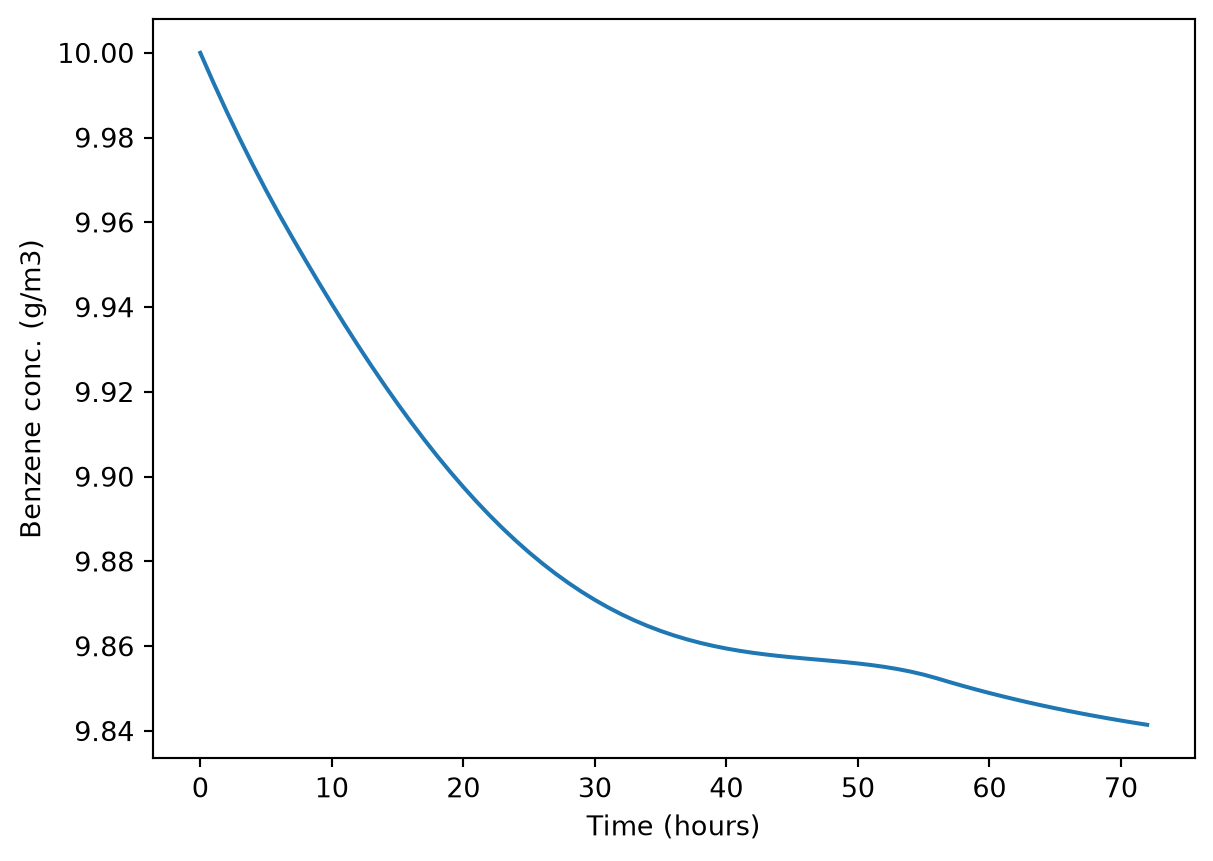
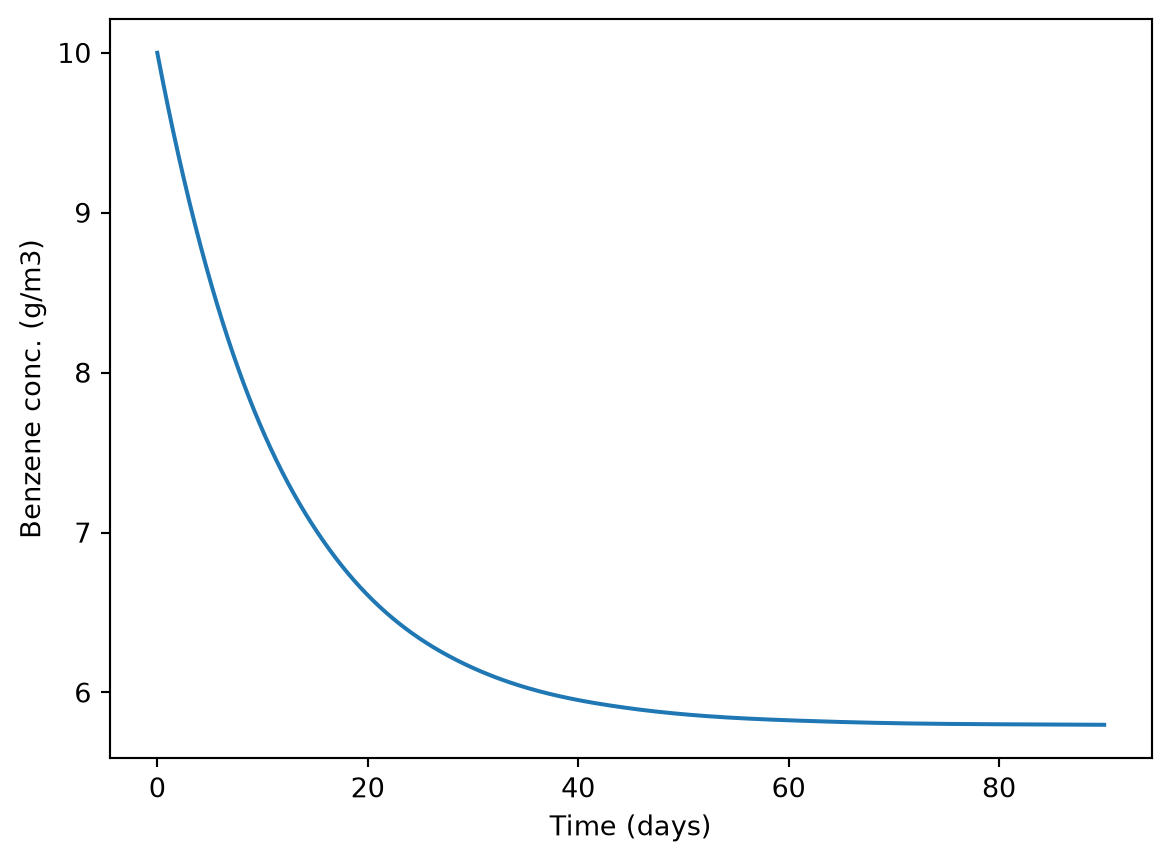
fix bez ex

diff --git a/docs/classes/22-12-nov-time-var/exercises/time_var_exercise.html b/docs/classes/22-12-nov-time-var/exercises/time_var_exercise.html
@@ -246,7 +246,7 @@ window.Quarto = {
 </header>
 
 
-<p>Here you will use the bezene volatilization model from the earlier mass transfer exercise. In the conceptual model, we have uniform benzene concentrations in the bulk air and wastewater. Contaminated wastewater is continuously added and older wastewater flows out through an outlet, we can assume a uniform and constant concentration, like a completely stirred tank reactor (CSTR). We could (and did) represent this situation with a steady-state model if the mass transfer coefficient is constant, but here you will create a time-variable model where that mass transfer coefficient changes over time.</p>
+<p>Here you will use the bezene volatilization model from the mass transfer exercise. In the conceptual model, we have uniform benzene concentrations in the bulk air and wastewater. Contaminated wastewater is continuously added and older wastewater flows out through an outlet, we can assume a uniform and constant concentration, like a completely stirred tank reactor (CSTR). We could (and did) represent this situation with a steady-state model if the mass transfer coefficient is constant, but here you will create a time-variable model where that mass transfer coefficient changes over time.</p>
 <p>Here is a sketch of the conceptual model:</p>
 <div id="fig-benz-concept" class="quarto-float quarto-figure quarto-figure-center anchored" alt="Benzene volatilization model concept">
 <figure class="quarto-float quarto-float-fig figure">
@@ -259,12 +259,12 @@ Figure&nbsp;1: Conceptual model for benzene volatilization from a wastewater lag
 </figure>
 </div>
 <p>For more details, you can check the <a href="https://au-bce-ee.github.io/course-modelling-2026/classes/06-10-sept-mass-transfer/solutions/benz_sol.html">solution</a>.</p>
-<p>The Python module <code>benz_nmods.py</code> has a numerical implementation of two models: a batch model with no inflow or outflow, and another with constant and equal inflow and outflow.</p>
+<p>The Python module <code>benz_mod.py</code> has a numerical implementation of a model with constant and equal inflow and outflow. It has been changed slightly from the earlier solution–here there are separate inputs for initial lagoon benzene concentration and wastewater concentration.</p>
 <div class="code-with-filename">
 <div class="code-with-filename-file">
-<pre><strong>benz_nmods.py</strong></pre>
+<pre><strong>benz_mod.py</strong></pre>
 </div>
-<div class="code-copy-outer-scaffold"><div class="sourceCode" id="cb1" data-filename="benz_nmods.py"><pre class="sourceCode python code-with-copy"><code class="sourceCode python"><span id="cb1-1"><a href="#cb1-1" aria-hidden="true" tabindex="-1"></a><span class="co">"""</span></span>
+<div class="code-copy-outer-scaffold"><div class="sourceCode" id="cb1" data-filename="benz_mod.py"><pre class="sourceCode python code-with-copy"><code class="sourceCode python"><span id="cb1-1"><a href="#cb1-1" aria-hidden="true" tabindex="-1"></a><span class="co">"""</span></span>
 <span id="cb1-2"><a href="#cb1-2" aria-hidden="true" tabindex="-1"></a><span class="co">File name: benz_mods.py</span></span>
 <span id="cb1-3"><a href="#cb1-3" aria-hidden="true" tabindex="-1"></a><span class="co">Author: Sasha D. Hafner</span></span>
 <span id="cb1-4"><a href="#cb1-4" aria-hidden="true" tabindex="-1"></a><span class="co">Course: Modelling 2026</span></span>
@@ -336,7 +336,7 @@ Figure&nbsp;1: Conceptual model for benzene volatilization from a wastewater lag
 <span id="cb1-70"><a href="#cb1-70" aria-hidden="true" tabindex="-1"></a>    <span class="cf">return</span> out</span>
 <span id="cb1-71"><a href="#cb1-71" aria-hidden="true" tabindex="-1"></a></span>
 <span id="cb1-72"><a href="#cb1-72" aria-hidden="true" tabindex="-1"></a></span>
-<span id="cb1-73"><a href="#cb1-73" aria-hidden="true" tabindex="-1"></a><span class="kw">def</span> benzvol_flow(cl0, ca, kg, depth, h, hrt, t_range, t_step):  </span>
+<span id="cb1-73"><a href="#cb1-73" aria-hidden="true" tabindex="-1"></a><span class="kw">def</span> benzvol_flow(clin, cl0, ca, kg, depth, h, hrt, t_range, t_step):  </span>
 <span id="cb1-74"><a href="#cb1-74" aria-hidden="true" tabindex="-1"></a></span>
 <span id="cb1-75"><a href="#cb1-75" aria-hidden="true" tabindex="-1"></a>    <span class="co">""" </span></span>
 <span id="cb1-76"><a href="#cb1-76" aria-hidden="true" tabindex="-1"></a><span class="co">    Dynamic numerical model for volatilization of benzene </span></span>
@@ -344,81 +344,86 @@ Figure&nbsp;1: Conceptual model for benzene volatilization from a wastewater lag
 <span id="cb1-78"><a href="#cb1-78" aria-hidden="true" tabindex="-1"></a></span>
 <span id="cb1-79"><a href="#cb1-79" aria-hidden="true" tabindex="-1"></a><span class="co">    Parameters</span></span>
 <span id="cb1-80"><a href="#cb1-80" aria-hidden="true" tabindex="-1"></a><span class="co">    ----------</span></span>
-<span id="cb1-81"><a href="#cb1-81" aria-hidden="true" tabindex="-1"></a><span class="co">    cl0 : float</span></span>
-<span id="cb1-82"><a href="#cb1-82" aria-hidden="true" tabindex="-1"></a><span class="co">        Initial benzene concentration in lagoon (g/m3) </span></span>
-<span id="cb1-83"><a href="#cb1-83" aria-hidden="true" tabindex="-1"></a><span class="co">    ca : float</span></span>
-<span id="cb1-84"><a href="#cb1-84" aria-hidden="true" tabindex="-1"></a><span class="co">        Constant ambient benzene concentration in air (g/m3)</span></span>
-<span id="cb1-85"><a href="#cb1-85" aria-hidden="true" tabindex="-1"></a><span class="co">    kg : float</span></span>
-<span id="cb1-86"><a href="#cb1-86" aria-hidden="true" tabindex="-1"></a><span class="co">        Overall interface mass transfer coefficient in gas phase units (m/s)</span></span>
-<span id="cb1-87"><a href="#cb1-87" aria-hidden="true" tabindex="-1"></a><span class="co">    depth : float</span></span>
-<span id="cb1-88"><a href="#cb1-88" aria-hidden="true" tabindex="-1"></a><span class="co">        Lagoon depth (assumed to be uniform) (m)</span></span>
-<span id="cb1-89"><a href="#cb1-89" aria-hidden="true" tabindex="-1"></a><span class="co">    h : float</span></span>
-<span id="cb1-90"><a href="#cb1-90" aria-hidden="true" tabindex="-1"></a><span class="co">        Henry's law constant (volumetric concentration based, aq:g)</span></span>
-<span id="cb1-91"><a href="#cb1-91" aria-hidden="true" tabindex="-1"></a><span class="co">    hrt : float</span></span>
-<span id="cb1-92"><a href="#cb1-92" aria-hidden="true" tabindex="-1"></a><span class="co">        hydraulic retention time based on flow rate (in = out) and lagoon volume (s)</span></span>
-<span id="cb1-93"><a href="#cb1-93" aria-hidden="true" tabindex="-1"></a><span class="co">    t_range : list or tuple of two floats </span></span>
-<span id="cb1-94"><a href="#cb1-94" aria-hidden="true" tabindex="-1"></a><span class="co">        Minimum and maximum time in output (s) </span></span>
-<span id="cb1-95"><a href="#cb1-95" aria-hidden="true" tabindex="-1"></a><span class="co">    t_step : float</span></span>
-<span id="cb1-96"><a href="#cb1-96" aria-hidden="true" tabindex="-1"></a><span class="co">        Time step in output (s)</span></span>
-<span id="cb1-97"><a href="#cb1-97" aria-hidden="true" tabindex="-1"></a></span>
-<span id="cb1-98"><a href="#cb1-98" aria-hidden="true" tabindex="-1"></a><span class="co">    Returns</span></span>
-<span id="cb1-99"><a href="#cb1-99" aria-hidden="true" tabindex="-1"></a><span class="co">    -------</span></span>
-<span id="cb1-100"><a href="#cb1-100" aria-hidden="true" tabindex="-1"></a><span class="co">    dictionary</span></span>
-<span id="cb1-101"><a href="#cb1-101" aria-hidden="true" tabindex="-1"></a><span class="co">        With elements 't' for time (s) and 'cl' for benzene concentration </span></span>
-<span id="cb1-102"><a href="#cb1-102" aria-hidden="true" tabindex="-1"></a><span class="co">        in wastewater (g/m3)</span></span>
-<span id="cb1-103"><a href="#cb1-103" aria-hidden="true" tabindex="-1"></a><span class="co"> </span></span>
-<span id="cb1-104"><a href="#cb1-104" aria-hidden="true" tabindex="-1"></a><span class="co">    """</span></span>
-<span id="cb1-105"><a href="#cb1-105" aria-hidden="true" tabindex="-1"></a>     </span>
-<span id="cb1-106"><a href="#cb1-106" aria-hidden="true" tabindex="-1"></a>    <span class="co"># Define rates function</span></span>
-<span id="cb1-107"><a href="#cb1-107" aria-hidden="true" tabindex="-1"></a>    <span class="kw">def</span> rates(t, cl):</span>
-<span id="cb1-108"><a href="#cb1-108" aria-hidden="true" tabindex="-1"></a></span>
-<span id="cb1-109"><a href="#cb1-109" aria-hidden="true" tabindex="-1"></a>        dcdt <span class="op">=</span> (cl0 <span class="op">-</span> cl) <span class="op">/</span> hrt <span class="op">-</span> kg <span class="op">*</span> (cl <span class="op">/</span> h <span class="op">-</span> ca) <span class="op">/</span> depth</span>
+<span id="cb1-81"><a href="#cb1-81" aria-hidden="true" tabindex="-1"></a><span class="co">    clin : float</span></span>
+<span id="cb1-82"><a href="#cb1-82" aria-hidden="true" tabindex="-1"></a><span class="co">        Benzene concentration in untreated wastewater (g/m3) </span></span>
+<span id="cb1-83"><a href="#cb1-83" aria-hidden="true" tabindex="-1"></a><span class="co">    cl0 : float</span></span>
+<span id="cb1-84"><a href="#cb1-84" aria-hidden="true" tabindex="-1"></a><span class="co">        Initial benzene concentration in lagoon (g/m3) </span></span>
+<span id="cb1-85"><a href="#cb1-85" aria-hidden="true" tabindex="-1"></a><span class="co">    ca : float</span></span>
+<span id="cb1-86"><a href="#cb1-86" aria-hidden="true" tabindex="-1"></a><span class="co">        Constant ambient benzene concentration in air (g/m3)</span></span>
+<span id="cb1-87"><a href="#cb1-87" aria-hidden="true" tabindex="-1"></a><span class="co">    kg : float</span></span>
+<span id="cb1-88"><a href="#cb1-88" aria-hidden="true" tabindex="-1"></a><span class="co">        Overall interface mass transfer coefficient in gas phase units (m/s)</span></span>
+<span id="cb1-89"><a href="#cb1-89" aria-hidden="true" tabindex="-1"></a><span class="co">    depth : float</span></span>
+<span id="cb1-90"><a href="#cb1-90" aria-hidden="true" tabindex="-1"></a><span class="co">        Lagoon depth (assumed to be uniform) (m)</span></span>
+<span id="cb1-91"><a href="#cb1-91" aria-hidden="true" tabindex="-1"></a><span class="co">    h : float</span></span>
+<span id="cb1-92"><a href="#cb1-92" aria-hidden="true" tabindex="-1"></a><span class="co">        Henry's law constant (volumetric concentration based, aq:g)</span></span>
+<span id="cb1-93"><a href="#cb1-93" aria-hidden="true" tabindex="-1"></a><span class="co">    hrt : float</span></span>
+<span id="cb1-94"><a href="#cb1-94" aria-hidden="true" tabindex="-1"></a><span class="co">        hydraulic retention time based on flow rate (in = out) and lagoon volume (s)</span></span>
+<span id="cb1-95"><a href="#cb1-95" aria-hidden="true" tabindex="-1"></a><span class="co">    t_range : list or tuple of two floats </span></span>
+<span id="cb1-96"><a href="#cb1-96" aria-hidden="true" tabindex="-1"></a><span class="co">        Minimum and maximum time in output (s) </span></span>
+<span id="cb1-97"><a href="#cb1-97" aria-hidden="true" tabindex="-1"></a><span class="co">    t_step : float</span></span>
+<span id="cb1-98"><a href="#cb1-98" aria-hidden="true" tabindex="-1"></a><span class="co">        Time step in output (s)</span></span>
+<span id="cb1-99"><a href="#cb1-99" aria-hidden="true" tabindex="-1"></a></span>
+<span id="cb1-100"><a href="#cb1-100" aria-hidden="true" tabindex="-1"></a><span class="co">    Returns</span></span>
+<span id="cb1-101"><a href="#cb1-101" aria-hidden="true" tabindex="-1"></a><span class="co">    -------</span></span>
+<span id="cb1-102"><a href="#cb1-102" aria-hidden="true" tabindex="-1"></a><span class="co">    dictionary</span></span>
+<span id="cb1-103"><a href="#cb1-103" aria-hidden="true" tabindex="-1"></a><span class="co">        With elements 't' for time (s) and 'cl' for benzene concentration </span></span>
+<span id="cb1-104"><a href="#cb1-104" aria-hidden="true" tabindex="-1"></a><span class="co">        in wastewater (g/m3)</span></span>
+<span id="cb1-105"><a href="#cb1-105" aria-hidden="true" tabindex="-1"></a><span class="co"> </span></span>
+<span id="cb1-106"><a href="#cb1-106" aria-hidden="true" tabindex="-1"></a><span class="co">    """</span></span>
+<span id="cb1-107"><a href="#cb1-107" aria-hidden="true" tabindex="-1"></a>     </span>
+<span id="cb1-108"><a href="#cb1-108" aria-hidden="true" tabindex="-1"></a>    <span class="co"># Define rates function</span></span>
+<span id="cb1-109"><a href="#cb1-109" aria-hidden="true" tabindex="-1"></a>    <span class="kw">def</span> rates(t, cl):</span>
 <span id="cb1-110"><a href="#cb1-110" aria-hidden="true" tabindex="-1"></a></span>
-<span id="cb1-111"><a href="#cb1-111" aria-hidden="true" tabindex="-1"></a>        <span class="cf">return</span> dcdt</span>
+<span id="cb1-111"><a href="#cb1-111" aria-hidden="true" tabindex="-1"></a>        dcdt <span class="op">=</span> (clin <span class="op">-</span> cl) <span class="op">/</span> hrt <span class="op">-</span> kg <span class="op">*</span> (cl <span class="op">/</span> h <span class="op">-</span> ca) <span class="op">/</span> depth</span>
 <span id="cb1-112"><a href="#cb1-112" aria-hidden="true" tabindex="-1"></a></span>
-<span id="cb1-113"><a href="#cb1-113" aria-hidden="true" tabindex="-1"></a>    res <span class="op">=</span> solve_ivp(</span>
-<span id="cb1-114"><a href="#cb1-114" aria-hidden="true" tabindex="-1"></a>        rates, </span>
-<span id="cb1-115"><a href="#cb1-115" aria-hidden="true" tabindex="-1"></a>        t_span <span class="op">=</span> t_range, </span>
-<span id="cb1-116"><a href="#cb1-116" aria-hidden="true" tabindex="-1"></a>        y0 <span class="op">=</span> [cl0], </span>
-<span id="cb1-117"><a href="#cb1-117" aria-hidden="true" tabindex="-1"></a>        t_eval <span class="op">=</span> np.arange(t_range[<span class="dv">0</span>], t_range[<span class="dv">1</span>] <span class="op">+</span> t_step, t_step)</span>
-<span id="cb1-118"><a href="#cb1-118" aria-hidden="true" tabindex="-1"></a>    )</span>
-<span id="cb1-119"><a href="#cb1-119" aria-hidden="true" tabindex="-1"></a></span>
-<span id="cb1-120"><a href="#cb1-120" aria-hidden="true" tabindex="-1"></a>    <span class="co"># Return user-friendly results object (dictionary here)</span></span>
-<span id="cb1-121"><a href="#cb1-121" aria-hidden="true" tabindex="-1"></a>    out <span class="op">=</span> {</span>
-<span id="cb1-122"><a href="#cb1-122" aria-hidden="true" tabindex="-1"></a>        <span class="st">"t"</span>: res.t, </span>
-<span id="cb1-123"><a href="#cb1-123" aria-hidden="true" tabindex="-1"></a>        <span class="st">"cl"</span>: res.y[<span class="dv">0</span>, :]</span>
-<span id="cb1-124"><a href="#cb1-124" aria-hidden="true" tabindex="-1"></a>    }</span>
-<span id="cb1-125"><a href="#cb1-125" aria-hidden="true" tabindex="-1"></a></span>
-<span id="cb1-126"><a href="#cb1-126" aria-hidden="true" tabindex="-1"></a>    <span class="cf">return</span> out</span></code></pre></div><button title="Copy to Clipboard" class="code-copy-button"><i class="bi"></i></button></div>
+<span id="cb1-113"><a href="#cb1-113" aria-hidden="true" tabindex="-1"></a>        <span class="cf">return</span> dcdt</span>
+<span id="cb1-114"><a href="#cb1-114" aria-hidden="true" tabindex="-1"></a></span>
+<span id="cb1-115"><a href="#cb1-115" aria-hidden="true" tabindex="-1"></a>    res <span class="op">=</span> solve_ivp(</span>
+<span id="cb1-116"><a href="#cb1-116" aria-hidden="true" tabindex="-1"></a>        rates, </span>
+<span id="cb1-117"><a href="#cb1-117" aria-hidden="true" tabindex="-1"></a>        t_span <span class="op">=</span> t_range, </span>
+<span id="cb1-118"><a href="#cb1-118" aria-hidden="true" tabindex="-1"></a>        y0 <span class="op">=</span> [cl0], </span>
+<span id="cb1-119"><a href="#cb1-119" aria-hidden="true" tabindex="-1"></a>        t_eval <span class="op">=</span> np.arange(t_range[<span class="dv">0</span>], t_range[<span class="dv">1</span>] <span class="op">+</span> t_step, t_step)</span>
+<span id="cb1-120"><a href="#cb1-120" aria-hidden="true" tabindex="-1"></a>    )</span>
+<span id="cb1-121"><a href="#cb1-121" aria-hidden="true" tabindex="-1"></a></span>
+<span id="cb1-122"><a href="#cb1-122" aria-hidden="true" tabindex="-1"></a>    <span class="co"># Return user-friendly results object (dictionary here)</span></span>
+<span id="cb1-123"><a href="#cb1-123" aria-hidden="true" tabindex="-1"></a>    out <span class="op">=</span> {</span>
+<span id="cb1-124"><a href="#cb1-124" aria-hidden="true" tabindex="-1"></a>        <span class="st">"t"</span>: res.t, </span>
+<span id="cb1-125"><a href="#cb1-125" aria-hidden="true" tabindex="-1"></a>        <span class="st">"cl"</span>: res.y[<span class="dv">0</span>, :]</span>
+<span id="cb1-126"><a href="#cb1-126" aria-hidden="true" tabindex="-1"></a>    }</span>
+<span id="cb1-127"><a href="#cb1-127" aria-hidden="true" tabindex="-1"></a></span>
+<span id="cb1-128"><a href="#cb1-128" aria-hidden="true" tabindex="-1"></a>    <span class="cf">return</span> out</span></code></pre></div><button title="Copy to Clipboard" class="code-copy-button"><i class="bi"></i></button></div>
 </div>
-<p>Here you will work with the second model. Here is a demo.</p>
-<div id="e07c41b1" class="cell" data-execution_count="1">
+<p>Here is a demo, starting with a benzene concentration of 10 <span class="math inline">\(\gpmc\)</span>.</p>
+<div id="d528186a" class="cell" data-execution_count="1">
 <div class="code-copy-outer-scaffold"><div class="sourceCode cell-code" id="cb2"><pre class="sourceCode python code-with-copy"><code class="sourceCode python"><span id="cb2-1"><a href="#cb2-1" aria-hidden="true" tabindex="-1"></a><span class="im">import</span> numpy <span class="im">as</span> np</span>
 <span id="cb2-2"><a href="#cb2-2" aria-hidden="true" tabindex="-1"></a><span class="im">import</span> matplotlib.pyplot <span class="im">as</span> plt</span>
 <span id="cb2-3"><a href="#cb2-3" aria-hidden="true" tabindex="-1"></a><span class="im">from</span> scipy.integrate <span class="im">import</span> solve_ivp</span>
 <span id="cb2-4"><a href="#cb2-4" aria-hidden="true" tabindex="-1"></a></span>
-<span id="cb2-5"><a href="#cb2-5" aria-hidden="true" tabindex="-1"></a><span class="im">import</span> benz_nmods <span class="im">as</span> bnm</span></code></pre></div><button title="Copy to Clipboard" class="code-copy-button"><i class="bi"></i></button></div>
+<span id="cb2-5"><a href="#cb2-5" aria-hidden="true" tabindex="-1"></a><span class="im">import</span> benz_mod <span class="im">as</span> bnm</span></code></pre></div><button title="Copy to Clipboard" class="code-copy-button"><i class="bi"></i></button></div>
 </div>
-<div id="1d90fcd4" class="cell" data-execution_count="2">
+<p>We’ll use a much lower mass transfer coefficient here than in the earlier exercise, only because this value is more realistic. And to make this lagoon at all effective, that means we need a much higher retention time. We might also consider whether benzene should be allowed to simply volatilize into the atmosphere, but for now let’s just accept that this system may not be a very realistic one!</p>
+<div id="106468f8" class="cell" data-execution_count="2">
 <div class="code-copy-outer-scaffold"><div class="sourceCode cell-code" id="cb3"><pre class="sourceCode python code-with-copy"><code class="sourceCode python"><span id="cb3-1"><a href="#cb3-1" aria-hidden="true" tabindex="-1"></a>pred03 <span class="op">=</span> bnm.benzvol_flow(</span>
-<span id="cb3-2"><a href="#cb3-2" aria-hidden="true" tabindex="-1"></a>    cl0<span class="op">=</span><span class="dv">10</span>, </span>
-<span id="cb3-3"><a href="#cb3-3" aria-hidden="true" tabindex="-1"></a>    ca<span class="op">=</span><span class="dv">0</span>, </span>
-<span id="cb3-4"><a href="#cb3-4" aria-hidden="true" tabindex="-1"></a>    kg<span class="op">=</span><span class="fl">1e-6</span>, </span>
-<span id="cb3-5"><a href="#cb3-5" aria-hidden="true" tabindex="-1"></a>    depth<span class="op">=</span><span class="dv">1</span>,</span>
-<span id="cb3-6"><a href="#cb3-6" aria-hidden="true" tabindex="-1"></a>    h<span class="op">=</span><span class="dv">5</span>,</span>
-<span id="cb3-7"><a href="#cb3-7" aria-hidden="true" tabindex="-1"></a>    hrt<span class="op">=</span><span class="dv">86400</span>,</span>
-<span id="cb3-8"><a href="#cb3-8" aria-hidden="true" tabindex="-1"></a>    t_range <span class="op">=</span> (<span class="dv">0</span>, <span class="dv">3</span> <span class="op">*</span> <span class="dv">86400</span>),</span>
-<span id="cb3-9"><a href="#cb3-9" aria-hidden="true" tabindex="-1"></a>    t_step <span class="op">=</span> <span class="dv">3600</span></span>
-<span id="cb3-10"><a href="#cb3-10" aria-hidden="true" tabindex="-1"></a>)</span></code></pre></div><button title="Copy to Clipboard" class="code-copy-button"><i class="bi"></i></button></div>
+<span id="cb3-2"><a href="#cb3-2" aria-hidden="true" tabindex="-1"></a>    clin<span class="op">=</span><span class="dv">10</span>, </span>
+<span id="cb3-3"><a href="#cb3-3" aria-hidden="true" tabindex="-1"></a>    cl0<span class="op">=</span><span class="dv">10</span>, </span>
+<span id="cb3-4"><a href="#cb3-4" aria-hidden="true" tabindex="-1"></a>    ca<span class="op">=</span><span class="dv">0</span>, </span>
+<span id="cb3-5"><a href="#cb3-5" aria-hidden="true" tabindex="-1"></a>    kg<span class="op">=</span><span class="fl">2e-6</span>, </span>
+<span id="cb3-6"><a href="#cb3-6" aria-hidden="true" tabindex="-1"></a>    depth<span class="op">=</span><span class="dv">1</span>,</span>
+<span id="cb3-7"><a href="#cb3-7" aria-hidden="true" tabindex="-1"></a>    h<span class="op">=</span><span class="dv">5</span>,</span>
+<span id="cb3-8"><a href="#cb3-8" aria-hidden="true" tabindex="-1"></a>    hrt<span class="op">=</span><span class="dv">21</span> <span class="op">*</span> <span class="dv">86400</span>,</span>
+<span id="cb3-9"><a href="#cb3-9" aria-hidden="true" tabindex="-1"></a>    t_range <span class="op">=</span> (<span class="dv">0</span>, <span class="dv">3</span> <span class="op">*</span> <span class="dv">30</span> <span class="op">*</span> <span class="dv">86400</span>),</span>
+<span id="cb3-10"><a href="#cb3-10" aria-hidden="true" tabindex="-1"></a>    t_step <span class="op">=</span> <span class="dv">3600</span></span>
+<span id="cb3-11"><a href="#cb3-11" aria-hidden="true" tabindex="-1"></a>)</span></code></pre></div><button title="Copy to Clipboard" class="code-copy-button"><i class="bi"></i></button></div>
 </div>
-<div id="23b12c99" class="cell" data-execution_count="3">
-<div class="code-copy-outer-scaffold"><div class="sourceCode cell-code" id="cb4"><pre class="sourceCode python code-with-copy"><code class="sourceCode python"><span id="cb4-1"><a href="#cb4-1" aria-hidden="true" tabindex="-1"></a>plt.plot(pred03[<span class="st">"t"</span>] <span class="op">/</span> <span class="dv">3600</span>, pred03[<span class="st">"cl"</span>])</span>
-<span id="cb4-2"><a href="#cb4-2" aria-hidden="true" tabindex="-1"></a>plt.xlabel(<span class="st">"Time (hours)"</span>)</span>
-<span id="cb4-3"><a href="#cb4-3" aria-hidden="true" tabindex="-1"></a>plt.ylabel(<span class="st">"Benzene conc. (g/m3)"</span>)</span></code></pre></div><button title="Copy to Clipboard" class="code-copy-button"><i class="bi"></i></button></div>
+<div id="69935652" class="cell" data-execution_count="3">
+<div class="code-copy-outer-scaffold"><div class="sourceCode cell-code" id="cb4"><pre class="sourceCode python code-with-copy"><code class="sourceCode python"><span id="cb4-1"><a href="#cb4-1" aria-hidden="true" tabindex="-1"></a>plt.plot(pred03[<span class="st">"t"</span>] <span class="op">/</span> <span class="dv">86400</span>, pred03[<span class="st">"cl"</span>])</span>
+<span id="cb4-2"><a href="#cb4-2" aria-hidden="true" tabindex="-1"></a>plt.xlabel(<span class="st">"Time (days)"</span>)</span>
+<span id="cb4-3"><a href="#cb4-3" aria-hidden="true" tabindex="-1"></a>plt.ylabel(<span class="st">"Benzene conc. (g/m3)"</span>)</span>
+<span id="cb4-4"><a href="#cb4-4" aria-hidden="true" tabindex="-1"></a>plt.show()</span></code></pre></div><button title="Copy to Clipboard" class="code-copy-button"><i class="bi"></i></button></div>
 <div class="cell-output cell-output-display">
 <div>
 <figure class="figure">
-<p><img src="time_var_exercise_files/figure-html/cell-4-output-1.png" width="607" height="431" class="figure-img"></p>
+<p><img src="time_var_exercise_files/figure-html/cell-4-output-1.png" width="585" height="431" class="figure-img"></p>
 </figure>
 </div>
 </div>

diff --git a/docs/index.html b/docs/index.html
@@ -186,7 +186,7 @@ MathJax = {
 
 
 <p><em>Modelling 2026</em> class schedule. Links appear below as material is released – slides and exercises are generally posted before class, solutions after. The reading or watching in the “Preparation” column should be completed before class. The textbook is <a href="https://au-bce-ee.github.io/modeling-py-book/">here</a>.</p>
-<div id="2e8a58b1" class="cell" data-execution_count="1">
+<div id="c2467466" class="cell" data-execution_count="1">
 <div class="cell-output cell-output-display">
 <table class="table table-striped caption-top table-sm small">
 <thead>

diff --git a/classes/22-12-nov-time-var/exercises/benz_mod.py b/classes/22-12-nov-time-var/exercises/benz_mod.py
@@ -70,7 +70,7 @@ def benzvol_batch(cl0, ca, kg, depth, h, t_range, t_step):
     return out
 
 
-def benzvol_flow(cl0, ca, kg, depth, h, hrt, t_range, t_step):  
+def benzvol_flow(clin, cl0, ca, kg, depth, h, hrt, t_range, t_step):  
 
     """ 
     Dynamic numerical model for volatilization of benzene 
@@ -78,6 +78,8 @@ def benzvol_flow(cl0, ca, kg, depth, h, hrt, t_range, t_step):
 
     Parameters
     ----------
+    clin : float
+        Benzene concentration in untreated wastewater (g/m3) 
     cl0 : float
         Initial benzene concentration in lagoon (g/m3) 
     ca : float
@@ -106,7 +108,7 @@ def benzvol_flow(cl0, ca, kg, depth, h, hrt, t_range, t_step):
     # Define rates function
     def rates(t, cl):
 
-        dcdt = (cl0 - cl) / hrt - kg * (cl / h - ca) / depth
+        dcdt = (clin - cl) / hrt - kg * (cl / h - ca) / depth
 
         return dcdt
 
